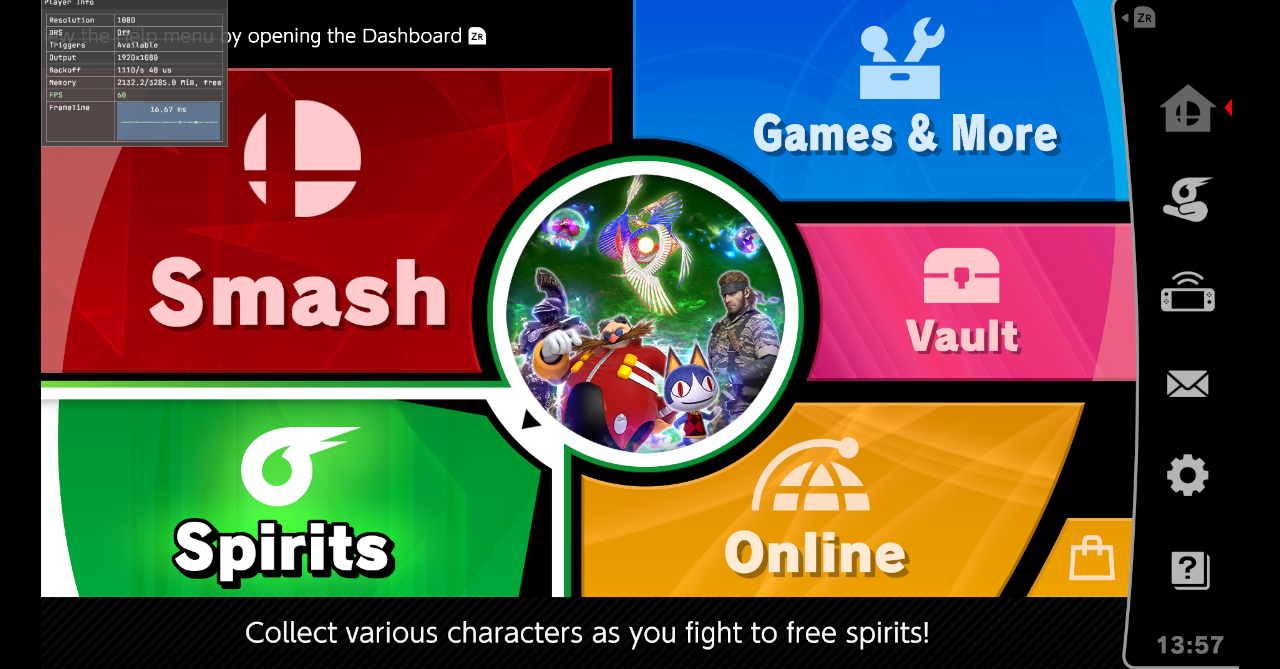
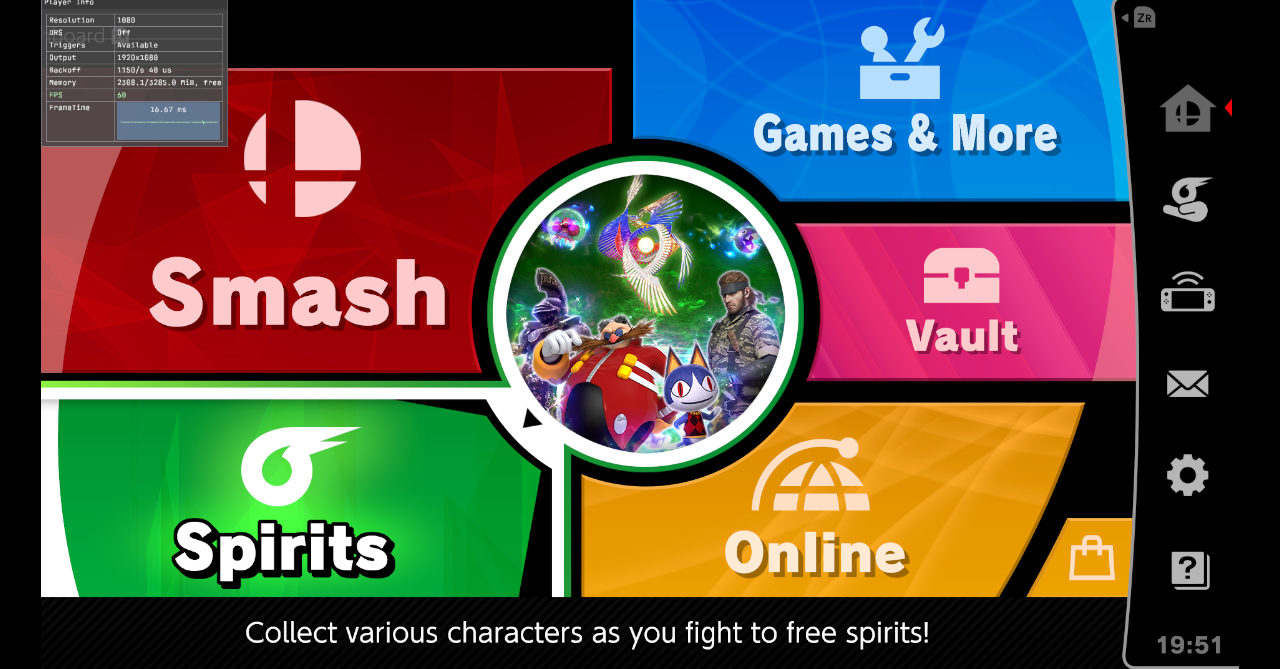
Docs: 0.5.0 screenshots and GIFs (FX row gone, FX Control page in the cycle)
Re-recorded in Eden on 2026-10-15 with Deluxe 0.5.0 and FX Control 0.1.0: the window views, the FX Control plugin page and its edit GIF, Training, a match and the character selects. Captions follow what the captures show; the Training character select after a session reads Vanilla* because the cleanup hold has returned the renderer to Vanilla.

diff --git a/docs/SCREENSHOTS.md b/docs/SCREENSHOTS.md
@@ -1,34 +1,42 @@
 # Screenshots
 
 Captured on 2026-10-14 in Eden (GIF-recording build, isolated test profile)
-with the 0.4.2 NRO; the game renders at 1280×720 in these runs. Views are
-described in [Controls](CONTROLS.md) and [Debugging](DEBUGGING.md). Raw
-captures and the preparation script live in the operator's evidence root
-(`docs-media-1014/`).
+with the 0.5.0 NRO and the [FX Control](https://git.syntaxbyexample.com/intpa/ssbu-fx-control)
+0.1.0 plugin installed next to it; the game renders at 1280×720 in these
+runs. Views are described in [Controls](CONTROLS.md) and
+[Debugging](DEBUGGING.md). Raw captures and the preparation script live in
+the operator's evidence root (`docs-media-050/`; the gamepad-overlay captures
+are from `docs-media-1014/`).
 
 ## The window
 
 | | |
 | --- | --- |
 | ![Settings window on the main menu](media/settings-view.png) <br> The Player Info window (Settings view) on the main menu. | ![Performance view](media/performance-view.png) <br> The Performance view. |
-| ![Settings window close-up](media/settings-window.png) <br> Settings rows: Name, Interface, NetLatency, NetProfile, Status, FX, Stealth, Streamer, FPS++, then the live Resolution, DRS, Backoff, Memory and FPS rows. | ![Debug window close-up](media/debug-window.png) <br> Debug rows, including `Timing`, `Capture L+R+Up (30 s)`, `CSS capture` and `Match capture`. |
-| ![Debug view](media/debug-view.png) <br> The Debug view on the main menu: build, renderer, FX tracker, capture rows. | ![Streamer on](media/streamer-on.png) <br> Streamer on in the Settings window at the main menu; the NetProfile row reads `Vanilla*` because the cleanup hold is running Vanilla for the manual LessLag selection. |
+| ![Settings window close-up](media/settings-window.png) <br> Settings rows: Name, Interface, NetLatency, NetProfile, Status, Stealth, Streamer, FPS++, then the live Resolution, DRS, Backoff, Memory and FPS rows. Character FX is no longer a Deluxe row. | ![Debug window close-up](media/debug-window.png) <br> Debug rows, including `Timing`, `Capture L+R+Up (30 s)`, `CSS capture` and `Match capture`. |
+| ![Debug view](media/debug-view.png) <br> The Debug view on the main menu: build, renderer and capture rows. | ![Streamer on](media/streamer-on.png) <br> Streamer on in the Settings window at the main menu (NetProfile LessLag, Status Active). |
+| ![FX Control page](media/fx-control-view.png) <br> A plugin's own page in the window cycle: the FX Control plugin's page (Scope, All, one row per covered fighter, EFF variants), one D-pad Down after Settings. | ![FX Control page close-up](media/fx-control-window.png) <br> The same page up close. |
 
 ![Cycling the overlay views](media/overlay-cycle.gif)
 
-Cycling the overlay with L+R+Down (Settings, Performance, hidden) and opening
-Debug with L+R+Plus.
+Cycling the overlay with L+R+Down (Settings, the FX Control plugin page,
+Performance, hidden) and opening Debug with L+R+Plus.
 
 ![Editing settings in the window](media/settings-edit.gif)
 
 Editing in the Settings window: Up/Down selects the row, Left/Right changes
 NetProfile and NetLatency.
 
+![Editing a plugin page](media/fx-control-edit.gif)
+
+Editing on a plugin page: a fighter row goes On → Off → Reduced and back; the
+All row reads `Unavailable` while the fighter rows differ.
+
 ## Character select and Training
 
 | | |
 | --- | --- |
-| ![Training character select with the native status line](media/training-css.png) <br> The native status line at the top of the character select: `You: LessLag \| Auto` (profile and input buffer). | ![Regular character select after Training](media/smash-css-after-training.png) <br> The regular character select entered after a Training session: the status line still reads `LessLag \| Auto`, because the game's training flag is still set there and the scene stays classified Training. The `Vanilla*` hold applies after a Singles or Doubles match. |
+| ![Training character select with the native status line](media/training-css.png) <br> The native status line at the top of the Training character select, reached by quitting a Training session: `You: Vanilla* \| Auto` (profile and input buffer). The asterisk is the cleanup hold: leaving the fighter scene returned the renderer to Vanilla, and the saved LessLag selection applies again on the next match. | ![Regular character select after Training](media/smash-css-after-training.png) <br> The regular character select entered after that Training session: the status line reads `LessLag \| Auto`. |
 | ![Debug view during Training](media/debug-training.png) <br> Training with the Debug view open: `Match capture: Armed; 1 capture(s)` and `Timing: Capturing` while the match capture streams. | ![Main menu](media/main-menu.png) <br> The main menu with the window hidden. |
 
 ![Training with the Player Info window](media/training-strip.gif)
@@ -45,7 +53,7 @@ frame time and the frame-time bar.
 
 | | |
 | --- | --- |
-| ![Match with the Settings strip](media/match-settings-strip.png) <br> Dark Samus vs a level 9 CPU on Final Destination with the Settings strip open: `>Net:Auto Profile:lesslag FX:On Stealth:Off Stream:Off FPS++:Off` and the frame-time line. | ![Match with the Performance strip](media/match-performance.png) <br> The Performance view in the same match. |
+| ![Match with the Settings strip](media/match-settings-strip.png) <br> A Singles match vs a level 9 CPU on Final Destination with the Settings strip open: `>Net:Auto Profile:lesslag Stealth:Off Stream:Off FPS++:Off` and the frame-time line. | ![Match with the Performance strip](media/match-performance.png) <br> The Performance view in the same match. |
 | ![Debug table over the pause menu](media/match-debug.png) <br> The Debug view in a match; the Plus in the chord also opens the game's pause menu. | ![Results after quitting](media/results-quit.png) <br> The results screen after quitting through the pause menu. |
 
 ![Match with the compact strip](media/match-strip.gif)
